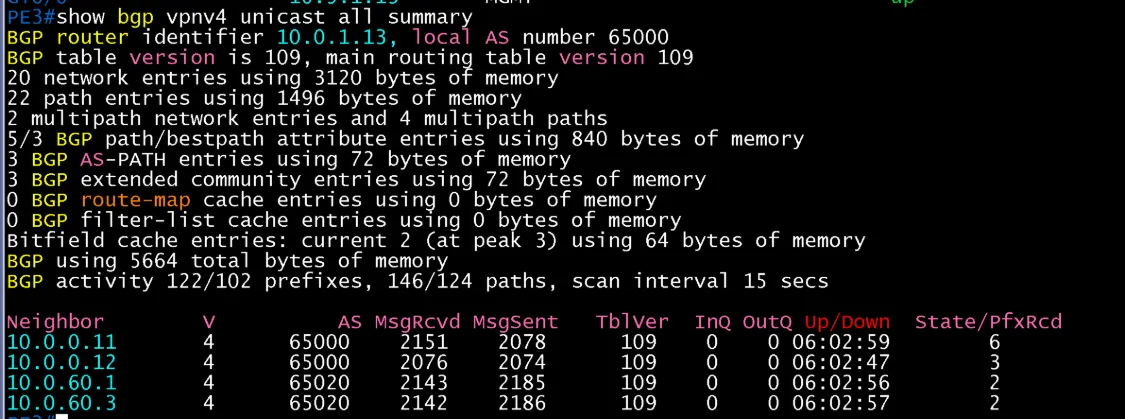
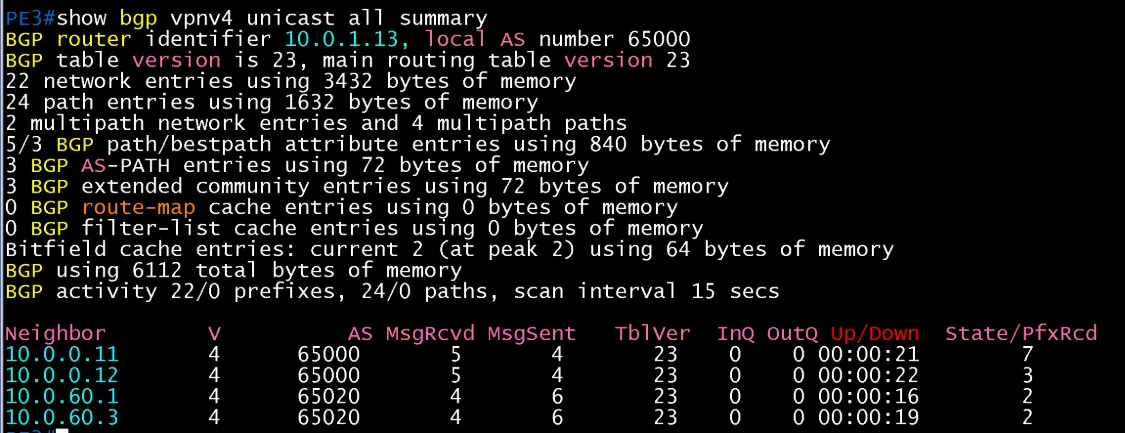
PE3-BGW 링크 서브인터페이스 제거, 물리 포트 통일과 재검증 반영

diff --git a/verification/core/02-interface-ip.md b/verification/core/02-interface-ip.md
@@ -115,10 +115,10 @@ show ip interface gigabitethernet 3/0 | include Internet address|VPN Routing|MTU
 
 ### PE3
 
-- `show ip interface brief`: loopback0 10.0.0.13, Gi0/0 10.0.10.3(PE1), Gi1/0 10.0.10.5(PE2), Gi2/0 10.0.60.0(BGW1), Gi3/0 10.0.60.2(BGW2), 관리 Gi6/0 10.9.1.13이 up/up. 서브인터페이스 `Gi2/0.100`, `Gi3/0.100`이 `deleted`로 보이는 것은 삭제한 서브인터페이스를 IOS가 재부팅 전까지 목록에 남기는 표시
+- `show ip interface brief`: loopback0 10.0.0.13, Gi0/0 10.0.10.3(PE1), Gi1/0 10.0.10.5(PE2), Gi2/0 10.0.60.0(BGW1), Gi3/0 10.0.60.2(BGW2), 관리 Gi6/0 10.9.1.13이 up/up. 서브인터페이스 목록은 없음(PE3 재부팅 후 화면)
 - `show ip vrf interfaces`: Gi2/0, Gi3/0이 BR1, Gi6/0이 MGMT
 - PE3의 BGW 링크는 PE1(Hub), PE2(CX)와 같이 물리 포트에 주소와 VRF를 직접 줌. 처음에는 dot1q 100 서브인터페이스(`.100`)로 구성했으나 쓸 이유가 없어 2026-11-14에 물리 포트로 통일(BGW1·2 `Gi0/0`도 같음)
-- 변경 뒤 확인: PE3 BGP 이웃 BGW1(10.0.60.1), BGW2(10.0.60.3) Established, BGW1·2의 PE3 이웃 Established, Host F -> Host A ping 4/4(TTL 57). BGP Up/Down이 약 6시간으로 이어져 세션은 끊기지 않았음
+- 변경 뒤 확인(PE3 재부팅 후): PE3 BGP 이웃 PE1, PE2, BGW1(10.0.60.1), BGW2(10.0.60.3) Established(Up/Down 약 20초, 재부팅으로 세션이 새로 수립됨), BGW1·2의 PE3 이웃 Established, Host F -> Host A ping 4/4(TTL 57, 재부팅 전 화면)
 
 ![PE3 인터페이스 IP](images/02-interface-ip/pe3-interface-ip.png)
 
